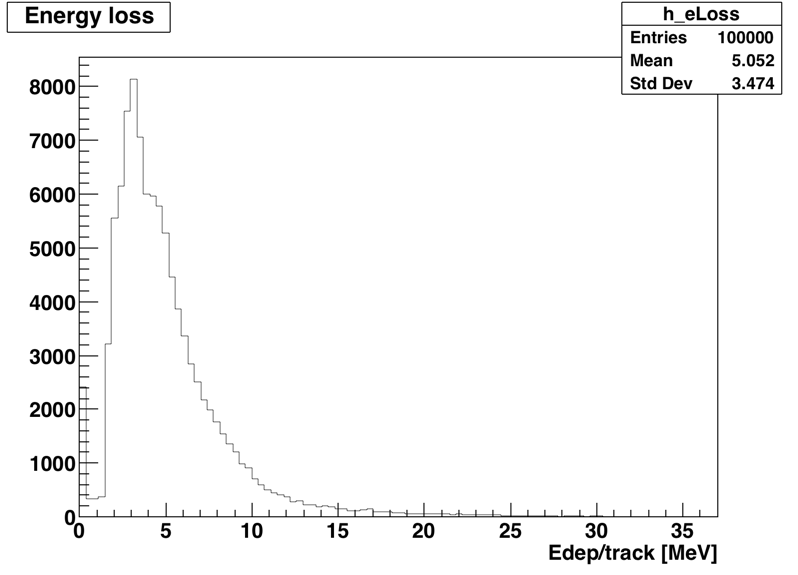
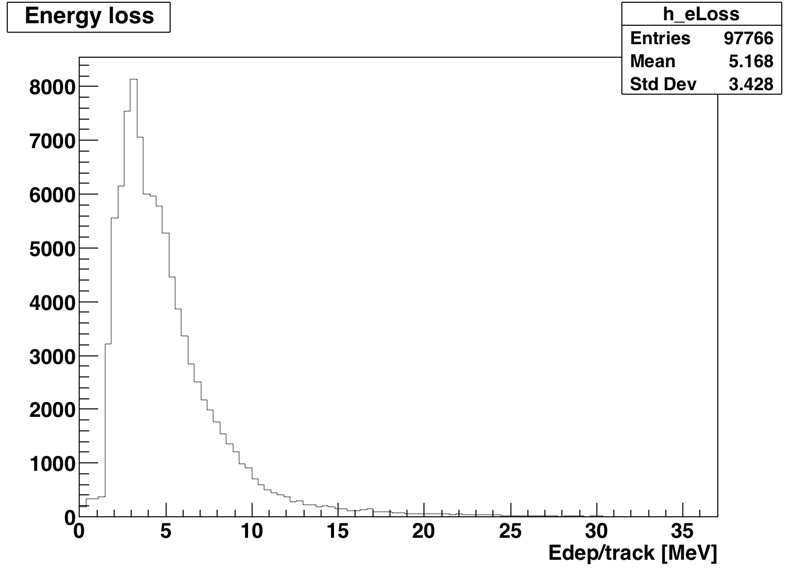
Added Edep vs Theta plot

Changed region(s): [[0.9023, 0.0296, 0.9925, 0.1774], [0.782, 0.0591, 0.8722, 0.1774]]

diff --git a/Eloss.c b/Eloss.c
@@ -42,7 +42,7 @@ void Eloss()
     //const int NEve = argv[1];
     const int NEve = 100000;
     
-    
+    const double PI = TMath::ACos(-1);
     
     
     //________________________________________________________________________________________________
@@ -53,9 +53,13 @@ void Eloss()
     
     TCanvas *c2 = new TCanvas("c2","energy loss v phi",800,600);
     
+    TCanvas *c3 = new TCanvas("c3","energy loss v theta",800,600);
+    
     TH1D *h_eLoss = new TH1D("h_eLoss","Energy loss",100,0,0);
     
-    TH2F *h_EvPhi = new TH2F("h_EvPhi","Eloss vs. Phi",100,0,15,100,0,365);
+    TH2F *h_Edep_v_phi = new TH2F("h_Edep_v_phi","Eloss vs. Phi",100,0,360,100,0,15);
+    
+    TH2F *h_Edep_v_theta = new TH2F("h_Edep_v_theta","Eloss vs. Theta",100,0,0,100,0,0);
     
     int n=0;
     
@@ -65,13 +69,14 @@ void Eloss()
     //________________________________________________________________________________________________
     
     // Copy file name
-    sprintf(filename,"/Users/nateMac/jlab_software/2.2/gemc/devel/gemc_Eloss.root");
+    sprintf(filename,"/Users/nateMac/jlab_software/2.2/gemc/devel/data/gemc_Eloss.root");
     //TFile *myfile= new TFile(filename, "open");
     
     //sprintf(filename,argv[0]);
     
     TFile *myfile= new TFile(filename, "open");
     TTree *tree= (TTree*)myfile->Get("rtpc");
+    TTree *gen_tree= (TTree*)myfile->Get("generated");
     
     std::vector<double>* CellID = 0;
     std::vector<double>* edep = 0;
@@ -79,10 +84,13 @@ void Eloss()
     std::vector<double>* Ypos = 0;
     std::vector<double>* Zpos = 0;
     
+    std::vector<double>* px = 0;
+    std::vector<double>* py = 0;
+    std::vector<double>* pz = 0;
+    
     TBranch *bcellID =  0;
     tree->SetBranchAddress("CellID",&CellID,&bcellID);
-    
-    // change after you get the name
+
     TBranch *bedep = 0;
     tree->SetBranchAddress("totEdep",&edep,&bedep);
     
@@ -95,8 +103,15 @@ void Eloss()
     TBranch *bZpos = 0;
     tree->SetBranchAddress("avg_z",&Zpos,&bZpos);
     
-    //TBranch *bpy = 0;
-    //tree->SetBranchAddress("py",&py,&bpy);
+    // generated info
+    TBranch *bpx = 0;
+    gen_tree->SetBranchAddress("px",&px,&bpx);
+    
+    TBranch *bpy = 0;
+    gen_tree->SetBranchAddress("py",&py,&bpy);
+    
+    TBranch *bpz = 0;
+    gen_tree->SetBranchAddress("pz",&pz,&bpz);
     
     
     //________________________________________________________________________________________________
@@ -108,6 +123,7 @@ void Eloss()
     for(int i=0; i<tree->GetEntries(); i++){
         
         Long64_t tentry = tree->LoadTree(i);
+        Long64_t gen_tentry = gen_tree->LoadTree(i);
         
         bcellID->GetEntry(tentry);
         bedep->GetEntry(tentry);
@@ -117,15 +133,21 @@ void Eloss()
         bYpos->GetEntry(tentry);
         bZpos->GetEntry(tentry);
         
-        double totEloss=0;
-        double phi_track=0;
+        // Get generated mom info
+        bpx->GetEntry(gen_tentry);
+        bpy->GetEntry(gen_tentry);
+        bpz->GetEntry(gen_tentry);
         
+        double totEloss=0;
+        
+        double p_tot = 0;
+        double phi_track = 0;
+        double theta_track = 0;
         
         // ________________________________________ Reconstruction _______________________________________
         
         // find postition from Cell ID
         for (UInt_t s = 0; s < CellID->size(); s++) {
-            
             
             // generated r position
             double r_pos=TMath::Sqrt(((Xpos->at(s))*(Xpos->at(s)))+((Ypos->at(s))*(Ypos->at(s))));
@@ -134,16 +156,18 @@ void Eloss()
             
             else totEloss += edep->at(s);
             
-            if (s == CellID->size()-1) {
-                phi_track = TMath::ATan2((Ypos->at(s)),(Xpos->at(s)))*(180/acos(-1))+180;
-                h_EvPhi->Fill(totEloss, phi_track);
-            }
-            
-            
         }// end finding position from Cell ID
         
+        
+        
+        p_tot = TMath::Sqrt((px->at(0)*px->at(0)) + (py->at(0)*py->at(0)));
+        phi_track = TMath::ATan2((py->at(0)),(px->at(0)))*(180/PI)+180.0;
+        theta_track = TMath::ATan2(p_tot,pz->at(0))*(180/PI);
+        
         if(totEloss != 0.0) h_eLoss->Fill(totEloss);
-
+        h_Edep_v_phi->Fill(phi_track, totEloss);
+        h_Edep_v_theta->Fill(theta_track, totEloss);
+        
     } // tree->GetEntries
     
     
@@ -162,14 +186,24 @@ void Eloss()
     c1->SaveAs("figs/Edep.png");
     // -------------------------------------------------------------------
     
-    // --------------------------- Eloss histogram ---------------------------
+    // --------------------------- Eloss vs Phi ---------------------------
     c2->cd();
-    h_EvPhi->Draw("CONT");
-    h_EvPhi->SetTitle("#phi v Edep");
-    //h_EvPhi->SetLineColor(kBlue);
-    h_EvPhi->GetXaxis()->SetTitle("Edep/track [MeV]");
-    h_EvPhi->GetYaxis()->SetTitle("#phi [deg]");
-    c2->SaveAs("figs/phi_v_Edep.png");
+    h_Edep_v_phi->Draw("CONT4");
+    h_Edep_v_phi->SetTitle("Edep v #phi");
+    //h_Edep_v_phi->SetLineColor(kBlue);
+    h_Edep_v_phi->GetXaxis()->SetTitle("#phi [deg]");
+    h_Edep_v_phi->GetYaxis()->SetTitle("Edep/track [MeV]");
+    c2->SaveAs("figs/Edep_v_phi.png");
+    // -------------------------------------------------------------------
+    
+    // --------------------------- Eloss vs Theta ---------------------------
+    c3->cd();
+    h_Edep_v_theta->Draw("CONT");
+    h_Edep_v_theta->SetTitle("Edep v #theta");
+    //h_Edep_v_theta->SetLineColor(kBlue);
+    h_Edep_v_theta->GetXaxis()->SetTitle("#theta [deg]");
+    h_Edep_v_theta->GetYaxis()->SetTitle("Edep/track [MeV]");
+    c3->SaveAs("figs/Edep_v_theta.png");
     // -------------------------------------------------------------------
     
     gPad->Update();
